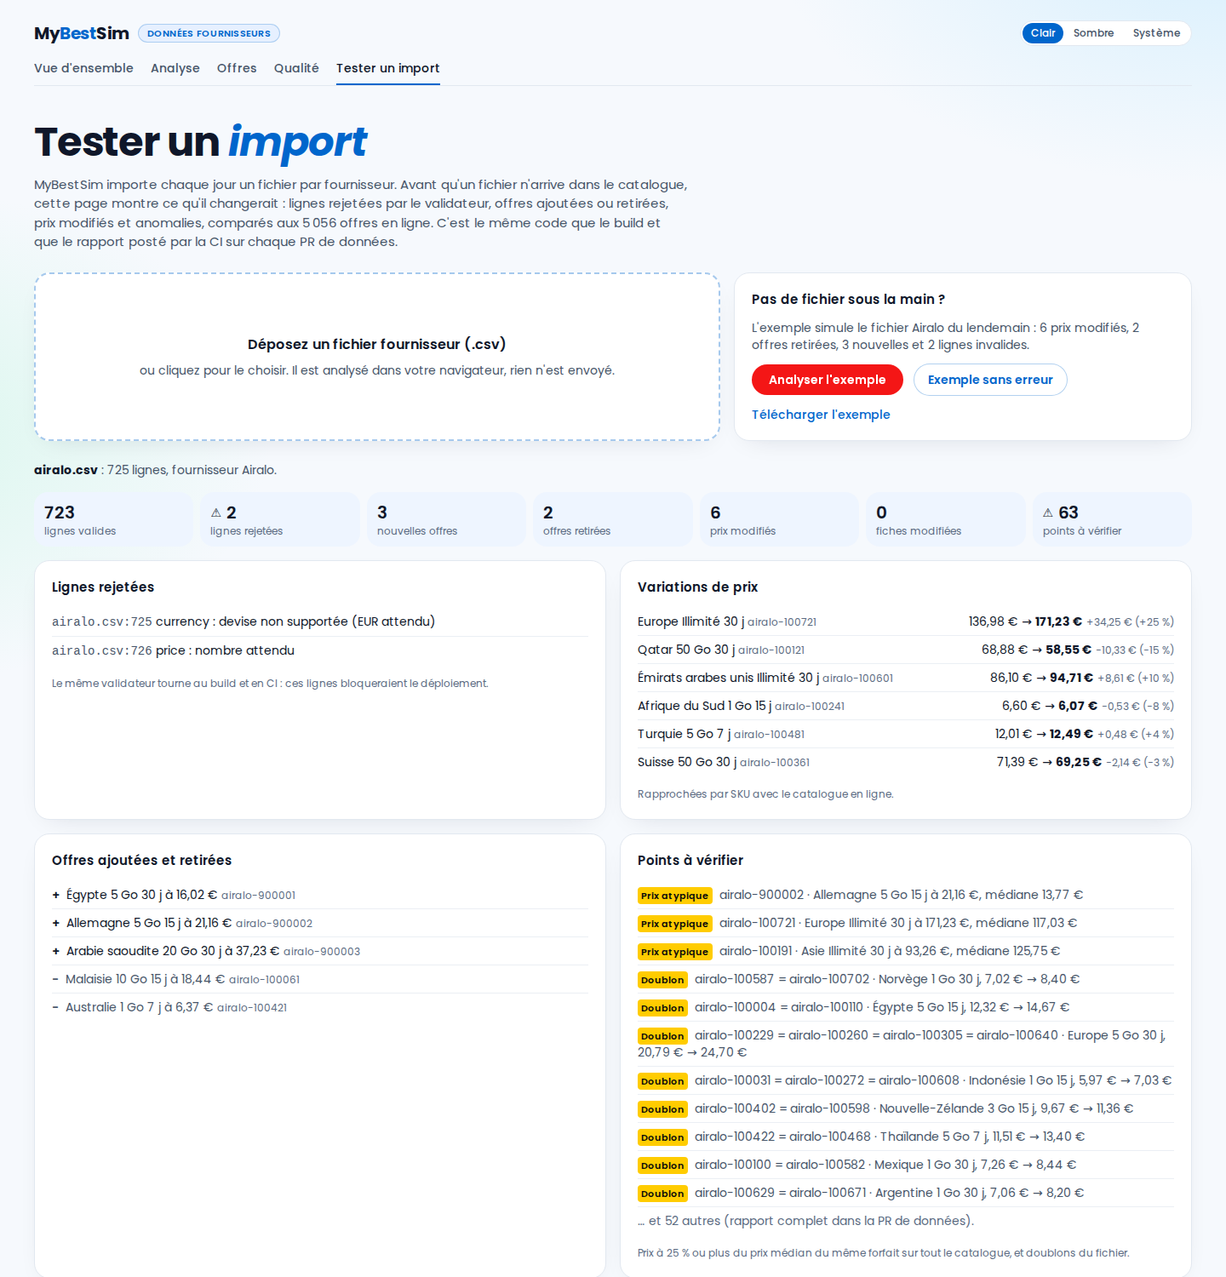
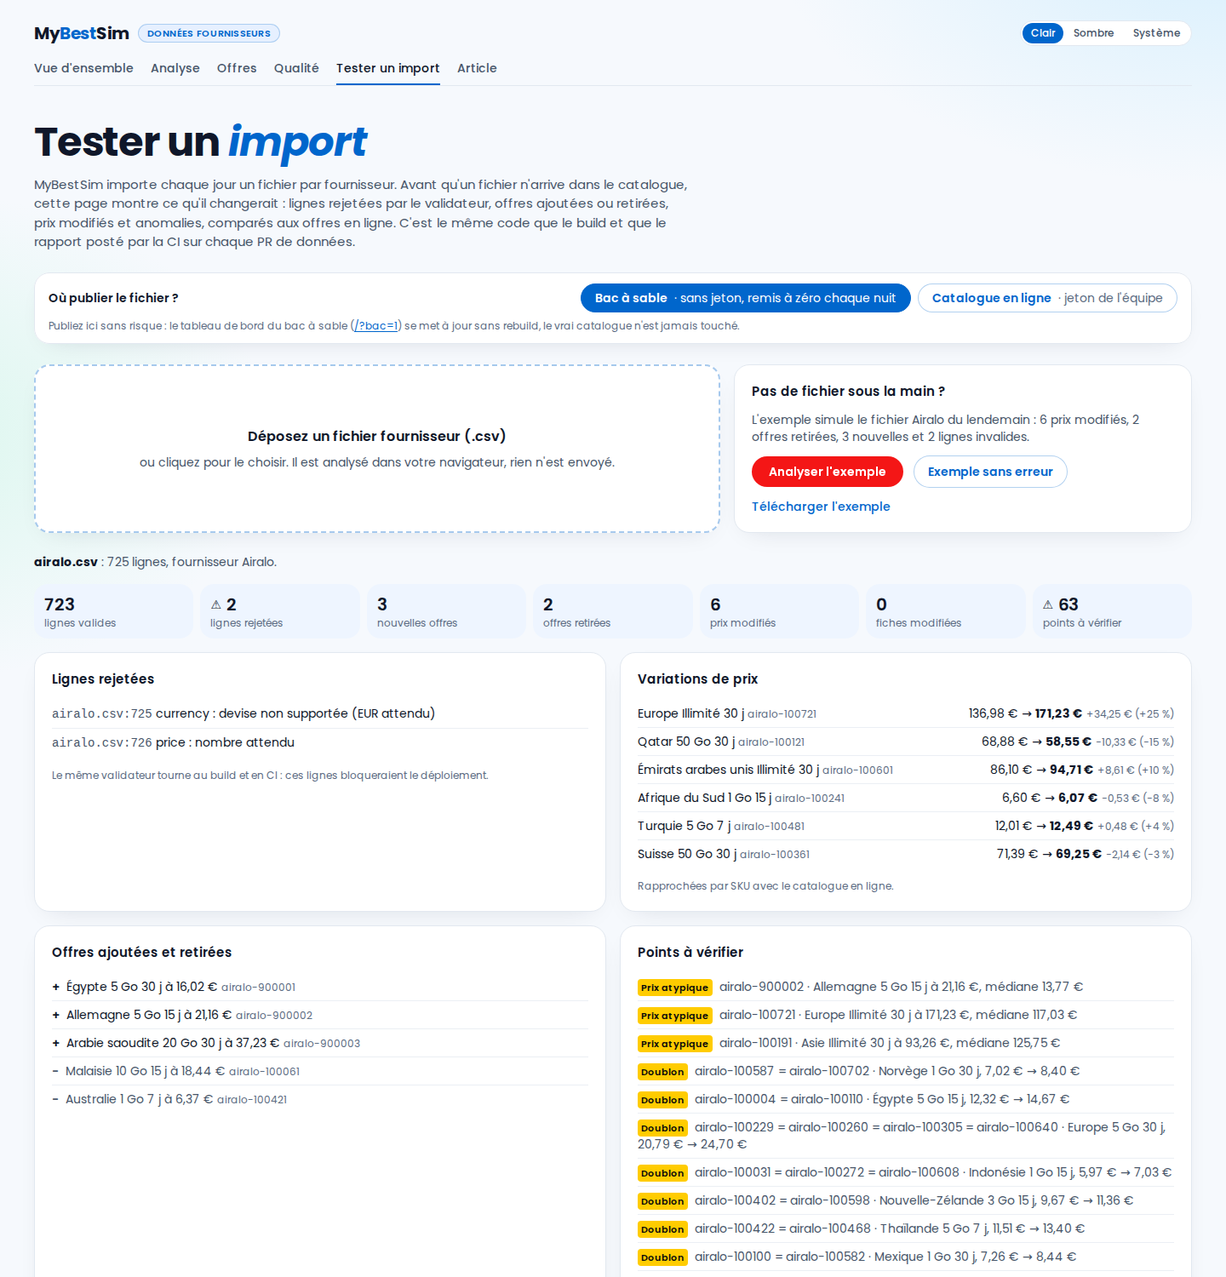
docs: refresh README, roadmap and screenshots (#27)
A line-by-line review against the live site: the README now covers the
sandbox in the architecture, tests, CI, commands and repository layout,
the decisions taken, and the last mistakes caught; the roadmap was a
plan from before part 2 and now lists what shipped and what is open.

Screenshots come from a fresh live server, with the article and the
sandbox added. The article links check sends one request at a time per
site: 17 parallel requests got this machine blocked by mybestsim.com.

diff --git a/docs/ROADMAP.md b/docs/ROADMAP.md
@@ -1,176 +1,39 @@
 # Feuille de route
 
-Idées notées pendant la V1, classées par impact. La V1 couvre le brief à la lettre. Le but
-ici : impressionner sans perdre en lisibilité.
+Ce qui a été livré, lot par lot, et ce qui reste ouvert. Le détail technique est dans le
+[README](../README.md), le déploiement dans [DEPLOY.md](DEPLOY.md) et l'analyse de l'article
+dans [seo/ANALYSE.md](seo/ANALYSE.md).
 
-## Fait en v2 (branche `feat/v2-comparator`)
+## Livré
 
-Corrections de la revue du 26/10/2026 :
+| Lot | Contenu | PR |
+| --- | --- | --- |
+| V1 | Lecture et validation des 18 CSV, les 7 points du sujet, CI et image Docker, Bun épinglé | #1 à #6 |
+| Logique métier | Économies, offres imbattables, contrôles (doublons, prix atypiques, incohérences), simulateur de voyage, histogramme, rapport d'import sur chaque PR de données | #7 |
+| Données sans rebuild | Service d'ingestion : API avec jeton, dossier `inbox/`, CLI, releases atomiques, garde-fou, webhook, limitation des essais | #8 |
+| Interface | DA MyBestSim, mise en page large, sous-pages, filtres dans l'URL, export CSV, page `/import`, données en direct, thème sombre | #9 |
+| CI | Tests navigateur dans l'image Playwright, smoke test des conteneurs, CI ignorée pour les données et la doc, Dependabot | #10, #14 |
+| Documentation | README, déploiement, feuille de route | #11 |
+| Dépôt propre | Nouveau dépôt privé, historique rejoué en PR, oracles versionnés dans `checks/` | #16, #17 |
+| Mise en ligne | Site sur le VPS, `deploy/` identique au VPS, job `verify` actif | #19 |
+| Partie 2 | Analyse de 12 pages concurrentes, article « Internet en croisière : quelle eSIM choisir ? », mise en page pleine largeur | #21, #23, #24 |
+| Bac à sable | Publication sans jeton depuis `/import`, vue `?bac=1`, remise à zéro chaque nuit | #22 |
+| Entretien | Arrêt propre du serveur e2e, `CLAUDE.md` dans le vault, mises à jour des actions GitHub et d'axe-core, accessibilité de `/import`, captures | #18, #20, #12, #25, #26, #27 |
 
-- débordement horizontal sur mobile corrigé (`min-w-0` sur les cartes de grille) ; un test e2e le
-  vérifie à 360, 390, 768, 1 024 et 1 440 px, et un contrôle négatif prouve qu'il échoue sur
-  l'ancienne mise en page (172 et 202 px de débordement) ;
-- filtres repliables sur mobile, avec compteur : les KPI sont visibles dès le premier écran ;
-- plus aucune donnée accessible seulement au survol (parts et effectifs affichés en clair) ;
-- bloc « À retenir » généré depuis les données (il suit les filtres) ;
-- contraste du gris secondaire remonté au niveau AA (repéré par axe) ;
-- chemins du ledger part1 rendus portables, Bun épinglé en 1.4.4 partout.
+## Ouvert
 
-Nouveautés :
+Par ordre d'intérêt pour MyBestSim.
 
-- **Économies** : forfaits identiques, écart de prix, fournisseur le moins cher le plus souvent,
-  offres imbattables (axe 3) ;
-- **Contrôles métier** : doublons de SKU, prix atypiques, offres incohérentes dans la gamme d'un
-  fournisseur (axe 4) ;
-- **Simulateur de voyage** avec forfaits régionaux et estimation de la data (axe 8) ;
-- **Histogramme des prix** avec médiane et moyenne (axe 9) ;
-- **Page `/import`** : glisser-déposer d'un CSV, rejets, diff et anomalies dans le navigateur
-  (axe 5) ;
-- **Rapport d'import sur chaque PR de données** (axes 1 et 2 : le diff entre deux imports est
-  calculé par la CI à partir du commit de base) ;
-- **Filtres dans l'URL**, bouton « Copier le lien », **export CSV** au format fournisseur (axe 6) ;
-- **Thème clair / sombre / système** ;
-- **Tests e2e Playwright + axe en CI** (axes 10 et 11, axe remplace Lighthouse pour l'accessibilité) ;
-- **Dependabot** (axe 12).
-
-Restent ouverts : comparateur côte à côte (7), `catalog.json` compact (13, 77 Ko gzip : pas
-prioritaire), prévisualisation par PR (14), et toute la partie présentation (15 à 17).
-
-## Fait en v3 et v4
-
-- **DA MyBestSim** : Poppins, bleu `#007bff`, pastilles, cartes arrondies, CTA rouge ; clair par
-  défaut, sombre bleu nuit en option ; largeur jusqu'à 1 720 px.
-- **Données hors du build** (`docs/DEPLOY.md`) : service d'ingestion Bun (API avec jeton,
-  dossier `inbox/`), releases atomiques avec historique, garde-fou sur les variations
-  anormales, webhook ; le dashboard lit les données en direct et affiche « Depuis le dernier
-  import » ; bouton « Publier » sur `/import` ; la CI ignore les changements de données.
-
-En v5 : accueil allégé et sous-pages (`/analyse`, `/offres`, `/qualite`), filtres conservés
-d'une page à l'autre, curseur main sur tous les contrôles, README complet avec captures. Repris
-d'un prototype SSR + SQLite : jeton de 24 caractères minimum, limitation des essais, imports « inchangés », CLI
-`bun run import`, smoke test des conteneurs en CI, healthchecks.
-
-Reste à faire : le **bac à sable public** pour que le recruteur publie sans jeton (jeu
-`sandbox` remis à zéro chaque nuit), puis le déploiement.
-
-## Ordre recommandé
-
-1. Déployer la V1 telle quelle, pour avoir un lien en ligne en sécurité.
-2. Écrire l'article SEO (partie 2) : c'est la moitié du test.
-3. Développer les axes 1 à 5 ci-dessous et faire la refonte frontend responsive.
-4. Finir par le README, les captures, le Loom et le texte du mail.
-
-## Densité d'information
-
-Le dashboard montre peut-être trop de choses. Un recruteur doit voir les 6 stats demandées en
-5 secondes.
-
-- **Au-dessus de la ligne de flottaison** : les points 1 à 6 du brief, avec leur numérotation pour
-  qu'on puisse les cocher, plus 2 ou 3 insights forts. Rien d'autre.
-- **Le reste dans des onglets ou des sections repliables** :
-  - « Analyse » : les bonus (point 7) ;
-  - « Catalogue » : le tableau des offres ;
-  - « Méthode » : les choix assumés et la qualité des données.
-- Réduire le tableau « meilleures offres » à 5 lignes, avec un bouton « voir plus ».
-
-## Refonte frontend : responsive partout
-
-- Mobile d'abord. Tester à trois largeurs minimum : 360, 768 et 1 440 px. Aucun scroll horizontal
-  de page.
-- Sur mobile, le tableau devient une liste de cartes et les filtres passent dans un panneau
-  (drawer) à ouvrir, avec un compteur de filtres actifs.
-- Bascule clair/sombre manuelle en plus de `prefers-color-scheme`.
-- Audit d'accessibilité : clavier, lecteur d'écran, contrastes. Viser Lighthouse 100 et afficher
-  le score dans le README.
-
-## Ajouter des CSV
-
-Le processus actuel :
-
-1. Déposer `<fournisseur>.csv` dans `data/`, avec les 12 mêmes colonnes.
-2. Lancer `bun run validate` en local. Il liste les lignes rejetées, avec fichier, ligne et
-   raison.
-3. Créer une branche `chore/data-<fournisseur>`, puis ouvrir une PR. La CI valide le schéma et
-   bloque les données invalides.
-4. Merger. L'image est publiée, Watchtower déploie en 1 minute environ, et le job `verify`
-   confirme le sha en ligne.
-
-Sans outil de dev, c'est possible depuis GitHub : « Add file », puis « Upload » dans `data/`,
-puis ouvrir la PR. La CI fait le reste.
-
-## Axes d'amélioration, par impact
-
-### Collés au métier
-
-MyBestSim est un comparateur qui importe des données chaque jour.
-
-1. **Changements depuis le dernier import** : nouvelles offres, offres retirées et prix modifiés,
-   par fournisseur. Répond directement à « on importe chaque jour ». Effort moyen.
-2. **Résumé automatique sur chaque PR de données** : la CI poste un commentaire du type « +12
-   offres, 3 baisses de prix, 0 rejet ». C'est une revue de données automatisée. Effort moyen.
-3. **Économies possibles** : pour un même forfait (destination, volume, durée), l'écart de prix
-   entre fournisseurs, par exemple « Japon 10 Go 15 j : de 18 € à 35 € ». C'est l'argument même
-   d'un comparateur. Effort faible.
-4. **Détection d'anomalies** : prix aberrants par rapport aux offres comparables, avec une
-   méthode IQR ou un z-score sur le €/Go par palier. Peut signaler une erreur d'import et renforce
-   la partie qualité. Effort faible.
-
-### Produit et UX
-
-5. **Glisser-déposer un CSV** : prévisualisation des stats et des rejets avant l'import, entièrement
-   dans le navigateur avec le même code de validation (zod et `computeStats` sont déjà partagés).
-   Effort faible à moyen.
-6. **Filtres dans l'URL** pour partager une vue précise, et **export CSV** de la vue filtrée.
-   Effort faible.
-7. **Comparateur de fournisseurs** : deux fournisseurs côte à côte. Effort moyen.
-8. **Outil « Meilleur forfait pour X Go et Y jours à destination de Z »**. Effort moyen.
-9. **Histogramme de la distribution des prix**, utile parce que la moyenne (29,30 €) est très
-   différente de la médiane (20,70 €). Effort faible.
-
-### Ingénierie
-
-10. **Tests de bout en bout Playwright en CI** (filtres, tri, recherche, mobile) avec des captures
-    de régression visuelle. Effort moyen.
-11. **Lighthouse CI** avec un budget de performance et d'accessibilité. Effort faible.
-12. **Renovate ou Dependabot** pour les dépendances. Effort faible.
-13. **`catalog.json` plus léger** (1 Mo brut, 77 Ko en gzip) : colonnes compactes ou chargement
-    paresseux. Effort faible.
-14. **Un déploiement de prévisualisation par PR** (sous-domaine éphémère). Effort moyen à élevé.
-
-### Présentation
-
-Elle est notée, à travers la méthodologie et l'usage de l'IA.
-
-15. **README** :
-    - lien en ligne, schéma d'architecture et de CI/CD ;
-    - captures desktop, mobile et sombre, plus un GIF des filtres ;
-    - choix assumés ;
-    - section « Comment j'ai utilisé l'IA » avec des exemples concrets : gates unlazy, chiffres
-      vérifiés par un oracle indépendant (Python ou awk) plutôt que par le code testé, témoins
-      négatifs (une erreur injectée doit être détectée), palette dataviz validée par script.
-16. **Loom de 2 minutes** : le lien, les 6 KPI, un filtre en direct, puis le pipeline CI/CD.
-17. **Texte du mail** : les trois liens et un paragraphe sur l'IA.
-
-## Partie 2 : article SEO
-
-Sujet : « Internet en croisière : quelle eSIM choisir ? ».
-
-1. **Analyse de la concurrence** :
-   - les 10 premiers résultats Google sur la requête et ses variantes (« eSIM croisière »,
-     « internet bateau croisière ») ;
-   - pour chacun : nombre de mots, structure H2/H3, angle, tableaux et FAQ ;
-   - les questions « Autres questions posées » de Google.
-2. **Longueur cible** : la médiane du top 10, plus 10 à 20 %.
-3. **Points à couvrir** :
-   - réseau maritime contre réseau terrestre aux escales ;
-   - Wi-Fi du bord (prix) ;
-   - risque de hors-forfait en mer ;
-   - offres eSIM couvrant les escales (Méditerranée, Caraïbes, Europe du Nord) ;
-   - forfaits multi-pays ;
-   - conseils (mode avion en mer, désactiver l'itinérance) ;
-   - FAQ.
-4. **Marque MyBestSim** : appels au comparateur, ton de la marque, liens internes vers des pages
-   types.
-5. **Hébergement** : dans la même app Astro (MDX), à l'adresse `/blog/internet-croisiere-esim`,
-   avec titres, gras, liens et suggestions d'images. Ajouter `noindex` ou une canonical pour
-   éviter le contenu dupliqué.
+1. **Publier l'article sur mybestsim.com.** Il est prêt à l'emploi : titres, données
+   structurées, liens internes, suggestions d'images. Sur ce domaine de démonstration, il reste en
+   `noindex` pour éviter le contenu dupliqué.
+2. **De vraies images dans l'article**, à partir des suggestions (photo d'escale, carte des
+   itinéraires, capture des réglages d'un iPhone), en WebP et avec leur texte alternatif.
+3. **Surveillance** : `bun run checks:live` une fois par jour (tâche planifiée GitHub, environ
+   1 minute de CI par jour) et un `WEBHOOK_URL` Discord ou Slack pour être prévenu de chaque import.
+4. **Comparateur côte à côte** de deux fournisseurs.
+5. **`catalog.json` plus compact.** Il pèse 1 Mo brut et 94 Ko compressé. Mesuré en ligne le
+   27 octobre 2026, le contenu principal s'affiche en 0,3 à 0,5 s : ce n'est pas prioritaire.
+6. **Budget de performance en CI** (Lighthouse CI). L'accessibilité est déjà couverte par axe dans
+   la suite e2e.
+7. **Un déploiement de prévisualisation par PR**, sur un sous-domaine éphémère.

diff --git a/README.md b/README.md
@@ -67,6 +67,10 @@ lien partagé rouvre la même vue, et la sélection suit le visiteur d'une page 
 | --- | --- | --- |
 | ![Page qualité](docs/screenshots/qualite.png) | ![Accueil sur mobile](docs/screenshots/accueil-mobile.png) | ![Accueil en sombre](docs/screenshots/accueil-sombre.png) |
 
+Les captures sont prises sur un serveur neuf, juste après la publication du fichier d'exemple
+(`bun run screenshots`) : le catalogue y compte donc 5 057 offres, et l'accueil montre l'encart
+« Depuis le dernier import ».
+
 ## Au-delà du sujet
 
 - **Constats « À retenir »**, calculés sur la sélection en cours. Chacun n'apparaît que si les
@@ -83,8 +87,11 @@ lien partagé rouvre la même vue, et la sélection suit le visiteur d'une page 
   - 219 produits identiques vendus sous plusieurs SKU par un même fournisseur ;
   - 8 prix atypiques ;
   - 351 offres incohérentes dans la gamme de leur propre fournisseur.
-- **Page `/import`** : un fichier déposé est validé et comparé au catalogue en ligne dans le
-  navigateur (lignes rejetées, offres ajoutées ou retirées, prix modifiés), puis publié.
+- **Page `/import`** : un fichier déposé est validé et comparé au catalogue dans le navigateur
+  (lignes rejetées, offres ajoutées ou retirées, prix modifiés), puis publié.
+- **Bac à sable public** : n'importe qui peut publier un fichier sans jeton et voir le tableau de
+  bord se mettre à jour sans rebuild (`?bac=1`), sans jamais toucher au vrai catalogue. Détail plus
+  bas.
 - **Identité MyBestSim** relevée sur mybestsim.com : police Poppins hébergée sur le site, bleu
   `#007bff`, filtres en pastilles, cartes arrondies, bouton principal rouge. Thème clair par
   défaut, sombre bleu nuit en option.
@@ -101,7 +108,7 @@ quotidien ne reconstruit donc jamais le site.
 flowchart LR
   subgraph VPS
     proxy["Caddy du VPS<br/>TLS, en-têtes"] --> web["web : Caddy<br/>site statique"]
-    web -- "/data/*" --> vol[("volume<br/>releases/id<br/>current")]
+    web -- "/data/*, /sandbox/data/*" --> vol[("volume<br/>releases/id, current<br/>sandbox/")]
     web -- "/api/*" --> ingest["ingest : Bun<br/>validation, garde-fou"]
     ingest --> vol
   end
@@ -116,8 +123,9 @@ flowchart LR
 - **`server/`** est le service d'ingestion. Il valide un import, puis écrit une release complète
   dans un dossier caché et bascule le lien `current` vers elle d'un coup : un lecteur ne voit jamais
   un catalogue à moitié écrit. Il garde l'historique, applique le garde-fou et notifie un webhook.
-- **Le front** lit `/data/*.json` (données en direct). Sans service, sur un hébergement statique par
-  exemple, il retombe sur l'instantané du build, sans erreur dans la console.
+- **Le front** lit `/data/*.json` (données en direct), ou `/sandbox/data/*.json` avec `?bac=1`.
+  Sans service, sur un hébergement statique par exemple, il retombe sur l'instantané du build, sans
+  erreur dans la console.
 
 Détail du volume, des variables et du déploiement : [docs/DEPLOY.md](docs/DEPLOY.md).
 
@@ -163,6 +171,8 @@ complet, le service tient un second catalogue, **le bac à sable**, dans le mêm
 - garde-fous propres : 20 publications par heure et par client, aucune notification à l'équipe, et
   **remise à zéro chaque nuit à 3 h** (heure de Paris) sur le jeu de fichiers initial ;
 - la production n'est jamais touchée : `checks/verify-sandbox.mjs` le vérifie octet pour octet.
+
+![Le tableau de bord du bac à sable, après une publication sans jeton](docs/screenshots/bac-a-sable.png)
 
 ## Choix assumés
 
@@ -222,22 +232,27 @@ est une page du même site, rendue au build. La démarche complète est dans
 cohérence du JSON-LD avec la page et chaque prix du catalogue recalculé depuis les CSV.
 `checks/verify-article-links.mjs` vérifie que chaque lien externe répond.
 
+![L'article en pleine largeur, avec le sommaire qui suit la lecture](docs/screenshots/article.png)
+
 ## Qualité et tests
 
 | Niveau | Outil | Ce qui est vérifié |
 | --- | --- | --- |
 | Schéma | zod (`bun run validate`) | 12 colonnes, types, devise EUR, réseau, cohérence volume et libellé, SKU unique. 0 rejet sur 5 056 lignes |
 | Unitaire | `bun test`, 180 tests dans 32 fichiers | chaque module de `src/lib` et du service, avec des chiffres de référence mesurés à part en Python |
-| Navigateur | Playwright, 71 tests dans 7 fichiers | KPI sans JavaScript, filtres et URL, tableau, export, simulateur, import puis publication, aucun scroll horizontal de 360 à 1 440 px, accessibilité axe (WCAG 2.1 AA) en clair et en sombre |
+| Navigateur | Playwright, 71 tests dans 7 fichiers | KPI sans JavaScript, filtres et URL, tableau, export, simulateur, import puis publication en production et dans le bac à sable, article, aucun scroll horizontal de 360 à 1 440 px, accessibilité axe (WCAG 2.1 AA) en clair et en sombre |
 | Oracles | 21 scripts dans `checks/` ([détail](checks/README.md)) | les chiffres affichés sont recalculés depuis les CSV bruts, sans réutiliser le code testé ; la CI en lance 16 à chaque PR (`bun run checks`) |
-| Conteneurs | CI | les images web et ingest démarrent ensemble ; publication à travers Caddy ; processus non-root ; données conservées après redémarrage |
+| Conteneurs | CI | les images web et ingest démarrent ensemble ; publication à travers Caddy, en production et dans le bac à sable ; processus non-root ; données conservées après redémarrage |
 
 Les vérifications sont elles-mêmes vérifiées (contrôles négatifs) :
 
 - un oracle relance le test de débordement mobile sur l'ancienne mise en page, où il doit échouer
   (172 et 202 px de trop à 390 et 360 px) ;
 - l'oracle métier, nourri d'un chiffre faussé d'une seule unité, l'a refusé ;
-- le validateur Caddy doit rejeter une configuration volontairement cassée.
+- le validateur Caddy doit rejeter une configuration volontairement cassée ;
+- l'oracle de l'article refuse un prix décalé d'un centime et le retrait du `noindex`, celui des
+  liens refuse une URL inventée ;
+- le test axe de `/import` en mode live échoue sur la version d'avant la correction de contraste.
 
 ## CI/CD
 
@@ -248,7 +263,7 @@ flowchart LR
   check --> ctr["images web + ingest<br/>smoke test"]
   pr -. "data/** seul" .-> report["rapport d'import<br/>en commentaire"]
   main["merge sur main"] --> img["images GHCR<br/>latest + sha"]
-  img --> wt["Watchtower<br/>sur le VPS"] --> verify["verify : sha en ligne,<br/>smoke test"]
+  img --> wt["Watchtower<br/>sur le VPS"] --> verify["verify : sha en ligne,<br/>smoke test, bac à sable"]
 ```
 
 - Le job `check` lance aussi les oracles indépendants de `checks/` après le build.
@@ -279,10 +294,12 @@ bun run lint         # Biome
 bun run check        # typage (astro check)
 bun run validate     # validation des CSV de data/
 bun test             # tests unitaires
-bun run checks       # oracles indépendants, après un build (--local : ceux qui demandent Caddy, dataviz)
+bun run checks       # oracles indépendants, après un build (--local : Caddy, dataviz, liens de l'article)
+bun run checks:live  # le site en ligne, après un déploiement
 bun run e2e          # build + Playwright (installer d'abord Chromium : bunx playwright install chromium)
 bun run import --data-dir /tmp/vol data/airalo.csv      # import en ligne de commande
 bun run screenshots http://127.0.0.1:4322 <jeton>       # régénère les captures de ce README
+bun scripts/serp-measure.ts                            # remesure les pages concurrentes de l'article
 ```
 
 Avec `dev:live`, le jeton de publication est `dev-token-not-for-production`.
@@ -293,9 +310,9 @@ Avec `dev:live`, le jeton de publication est `dev-token-not-for-production`.
 data/                 CSV fournisseurs de référence (jeu initial du volume)
 src/lib/              logique métier pure et testée, partagée partout
 src/components/       îlots React et composants Astro
-src/pages/            pages (/, /analyse, /offres, /qualite, /import) et endpoints JSON/CSV
-server/               service d'ingestion (API, inbox, releases, webhook, sécurité)
-scripts/              validation, rapport d'import, CLI d'import, smoke test, captures
+src/pages/            pages (/, /analyse, /offres, /qualite, /import, /blog/…) et endpoints JSON/CSV
+server/               service d'ingestion (API, inbox, releases, bac à sable, webhook, sécurité)
+scripts/              validation, rapport d'import, CLI d'import, smoke test, captures, mesure SEO
 e2e/                  tests Playwright
 docker/, Dockerfile   images web (Caddy) et ingest (Bun)
 deploy/               services Docker Compose et bloc Caddy du VPS
@@ -345,10 +362,15 @@ qui engagent le projet sont les miens :
 - reprendre la direction artistique de mybestsim.com ;
 - élargir la mise en page, puis découper l'accueil en sous-pages ;
 - découpler les données du build, pour ne pas consommer de minutes de CI à chaque import ;
-- garder cette architecture plutôt qu'une autre implémentation, détaillée plus bas.
+- garder cette architecture plutôt qu'une autre implémentation, détaillée plus bas ;
+- recréer le dépôt avec un historique propre, et garder l'URL `mybestsim.sbonneau.xyz` ;
+- ouvrir un bac à sable public, pour que le parcours d'import se teste sans jeton ;
+- passer l'article en pleine largeur, comme le reste du site.
 
 J'ai aussi relevé des défauts que l'agent n'avait pas vus, comme le curseur qui ne se changeait
-pas en main sur les boutons.
+pas en main sur les boutons, ou l'article enfermé dans une colonne étroite. C'est aussi à ma
+demande que l'agent a audité le site en ligne, ce qui a révélé le défaut d'accessibilité de
+`/import` décrit plus bas.
 
 **Pour l'article**, l'agent a fait la recherche (moteur de recherche web, lecture des pages
 concurrentes et des pages de MyBestSim), écrit l'outil de mesure et rédigé le texte. Il a cherché
@@ -385,6 +407,8 @@ L'agent se trompe. La méthode sert justement à le voir avant que ça arrive en
 | Deux sources de l'article refusaient les robots ou répondaient une fois sur deux | oracle des liens, sources remplacées par les communiqués officiels |
 | Quelques phrases de l'article affirmaient sans source (« la plupart des navires », un volume de data) | relecture phrase par phrase, reformulées ou retirées |
 | Sur `/import`, le choix du bac à sable avait un texte à 4,46:1 de contraste et un lien non souligné, invisibles pour la CI : le test axe tournait sans service d'ingestion, donc sans ce choix | audit axe du site en ligne, puis correction et test axe ajouté en mode live |
+| En mode statique, la page d'import interrogeait une API absente et laissait une erreur 404 dans la console | test e2e « zéro erreur console », puis fichier témoin servi au build |
+| Le bac à sable n'était signalé que par une petite ligne sous les indicateurs | revue des captures, bandeau ajouté en haut de page |
 
 **Deux implémentations du même besoin.** Une session de travail sur l'autre machine avait ouvert une
 PR d'import en SSR avec SQLite, pendant que celle-ci construisait la version actuelle. L'agent l'a repérée avant de
